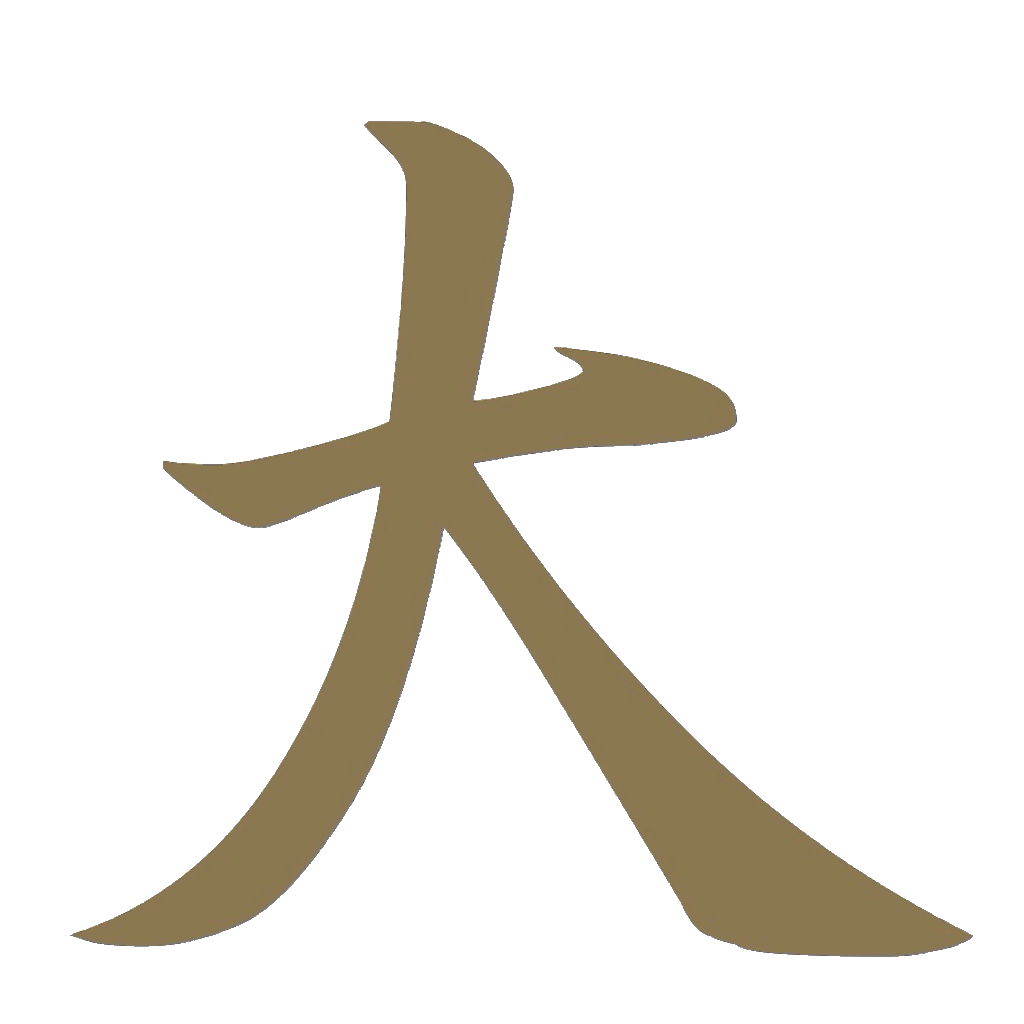
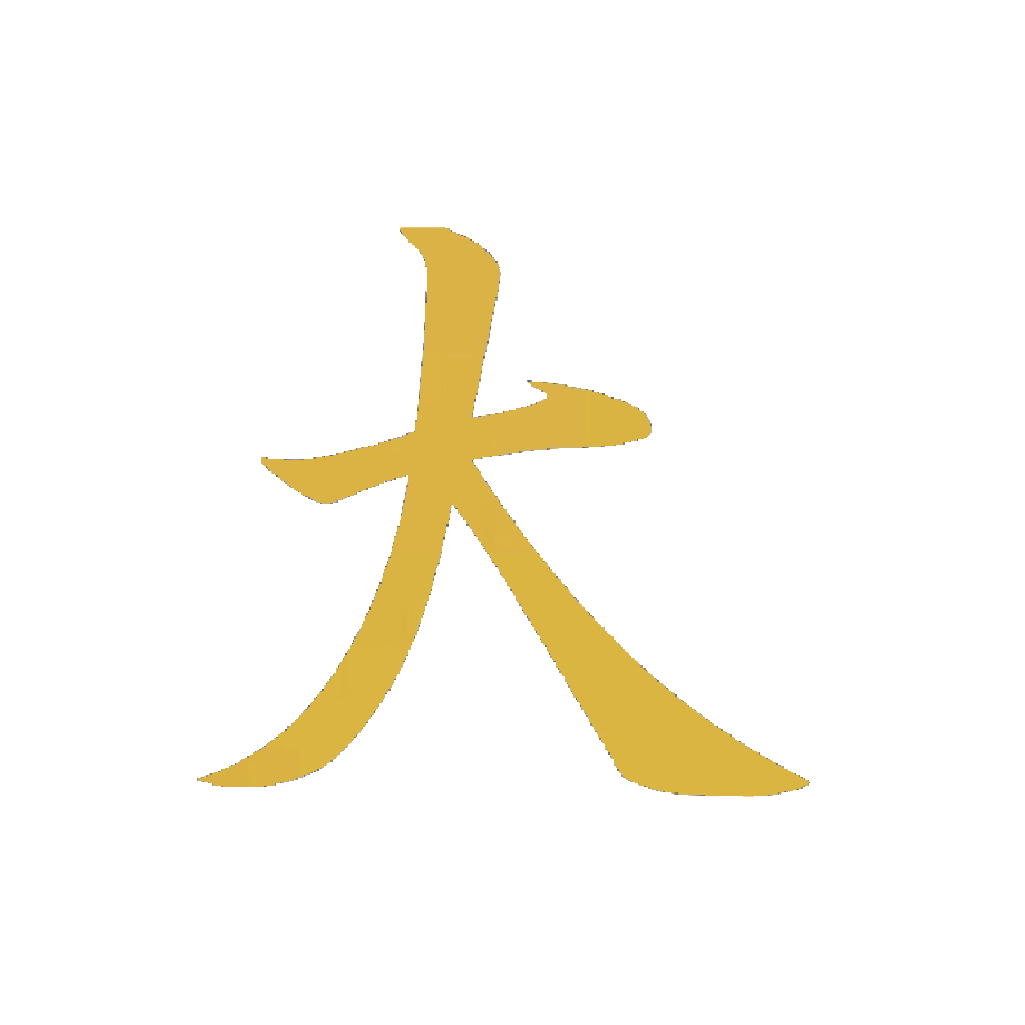
update lesson 5

Changed region(s): [[0.0625, 0.0938, 0.9688, 0.9375]]

diff --git a/kml/contents/books/book_01/compounds/lesson_06.html b/kml/contents/books/book_01/compounds/lesson_06.html
@@ -46,9 +46,9 @@
 
 <div class="compound-block">
  <div class="kanji-img-center">
-  <img src="../../../../assets/art/kanji-art/fond.png" alt="Fond Kanji Art" class="kanji-med" />
+  <img src="../../../../assets/art/kanji-art/fond_of.png" alt="Fond Kanji Art" class="kanji-med" />
 </div> 
-  <div class="kanji-label">好 (コウ / このむ / すき) - Fond</div>
+  <div class="kanji-label">好 (コウ / このむ / すき) - Fond of</div>
   <ul>
     <li><strong>好む</strong>【このむ】– To prefer, to like</li>
     <li><strong>好き</strong>【すき】– Liking, fondness</li>
@@ -70,9 +70,9 @@
 </div>
 <div class="compound-block">
  <div class="kanji-img-center">
-  <img src="../../../../assets/art/kanji-art/mama.png" alt="Mama Kanji Art" class="kanji-med" />
+  <img src="../../../../assets/art/kanji-art/mother.png" alt="Mama Kanji Art" class="kanji-med" />
 </div> 
-  <div class="kanji-label">母 (ボ / はは) - Mama</div>
+  <div class="kanji-label">母 (ボ / はは) - Mother</div>
   <ul>
     <li><strong>母</strong>【はは】– Mother (one's own)</li>
     <li><strong>お母さん</strong>【おかあさん】– Mother (polite)</li>
@@ -94,7 +94,7 @@
 </div>
 <div class="compound-block">
  <div class="kanji-img-center">
-  <img src="../../../../assets/art/kanji-art/brother.png" alt="Brother Kanji Art" class="kanji-med" />
+  <img src="../../../../assets/art/kanji-art/older_brother.png" alt="Brother Kanji Art" class="kanji-med" />
 </div> 
   <div class="kanji-label">兄 (ケイ / キョウ / あに) -  Brother</div>
   <ul>
